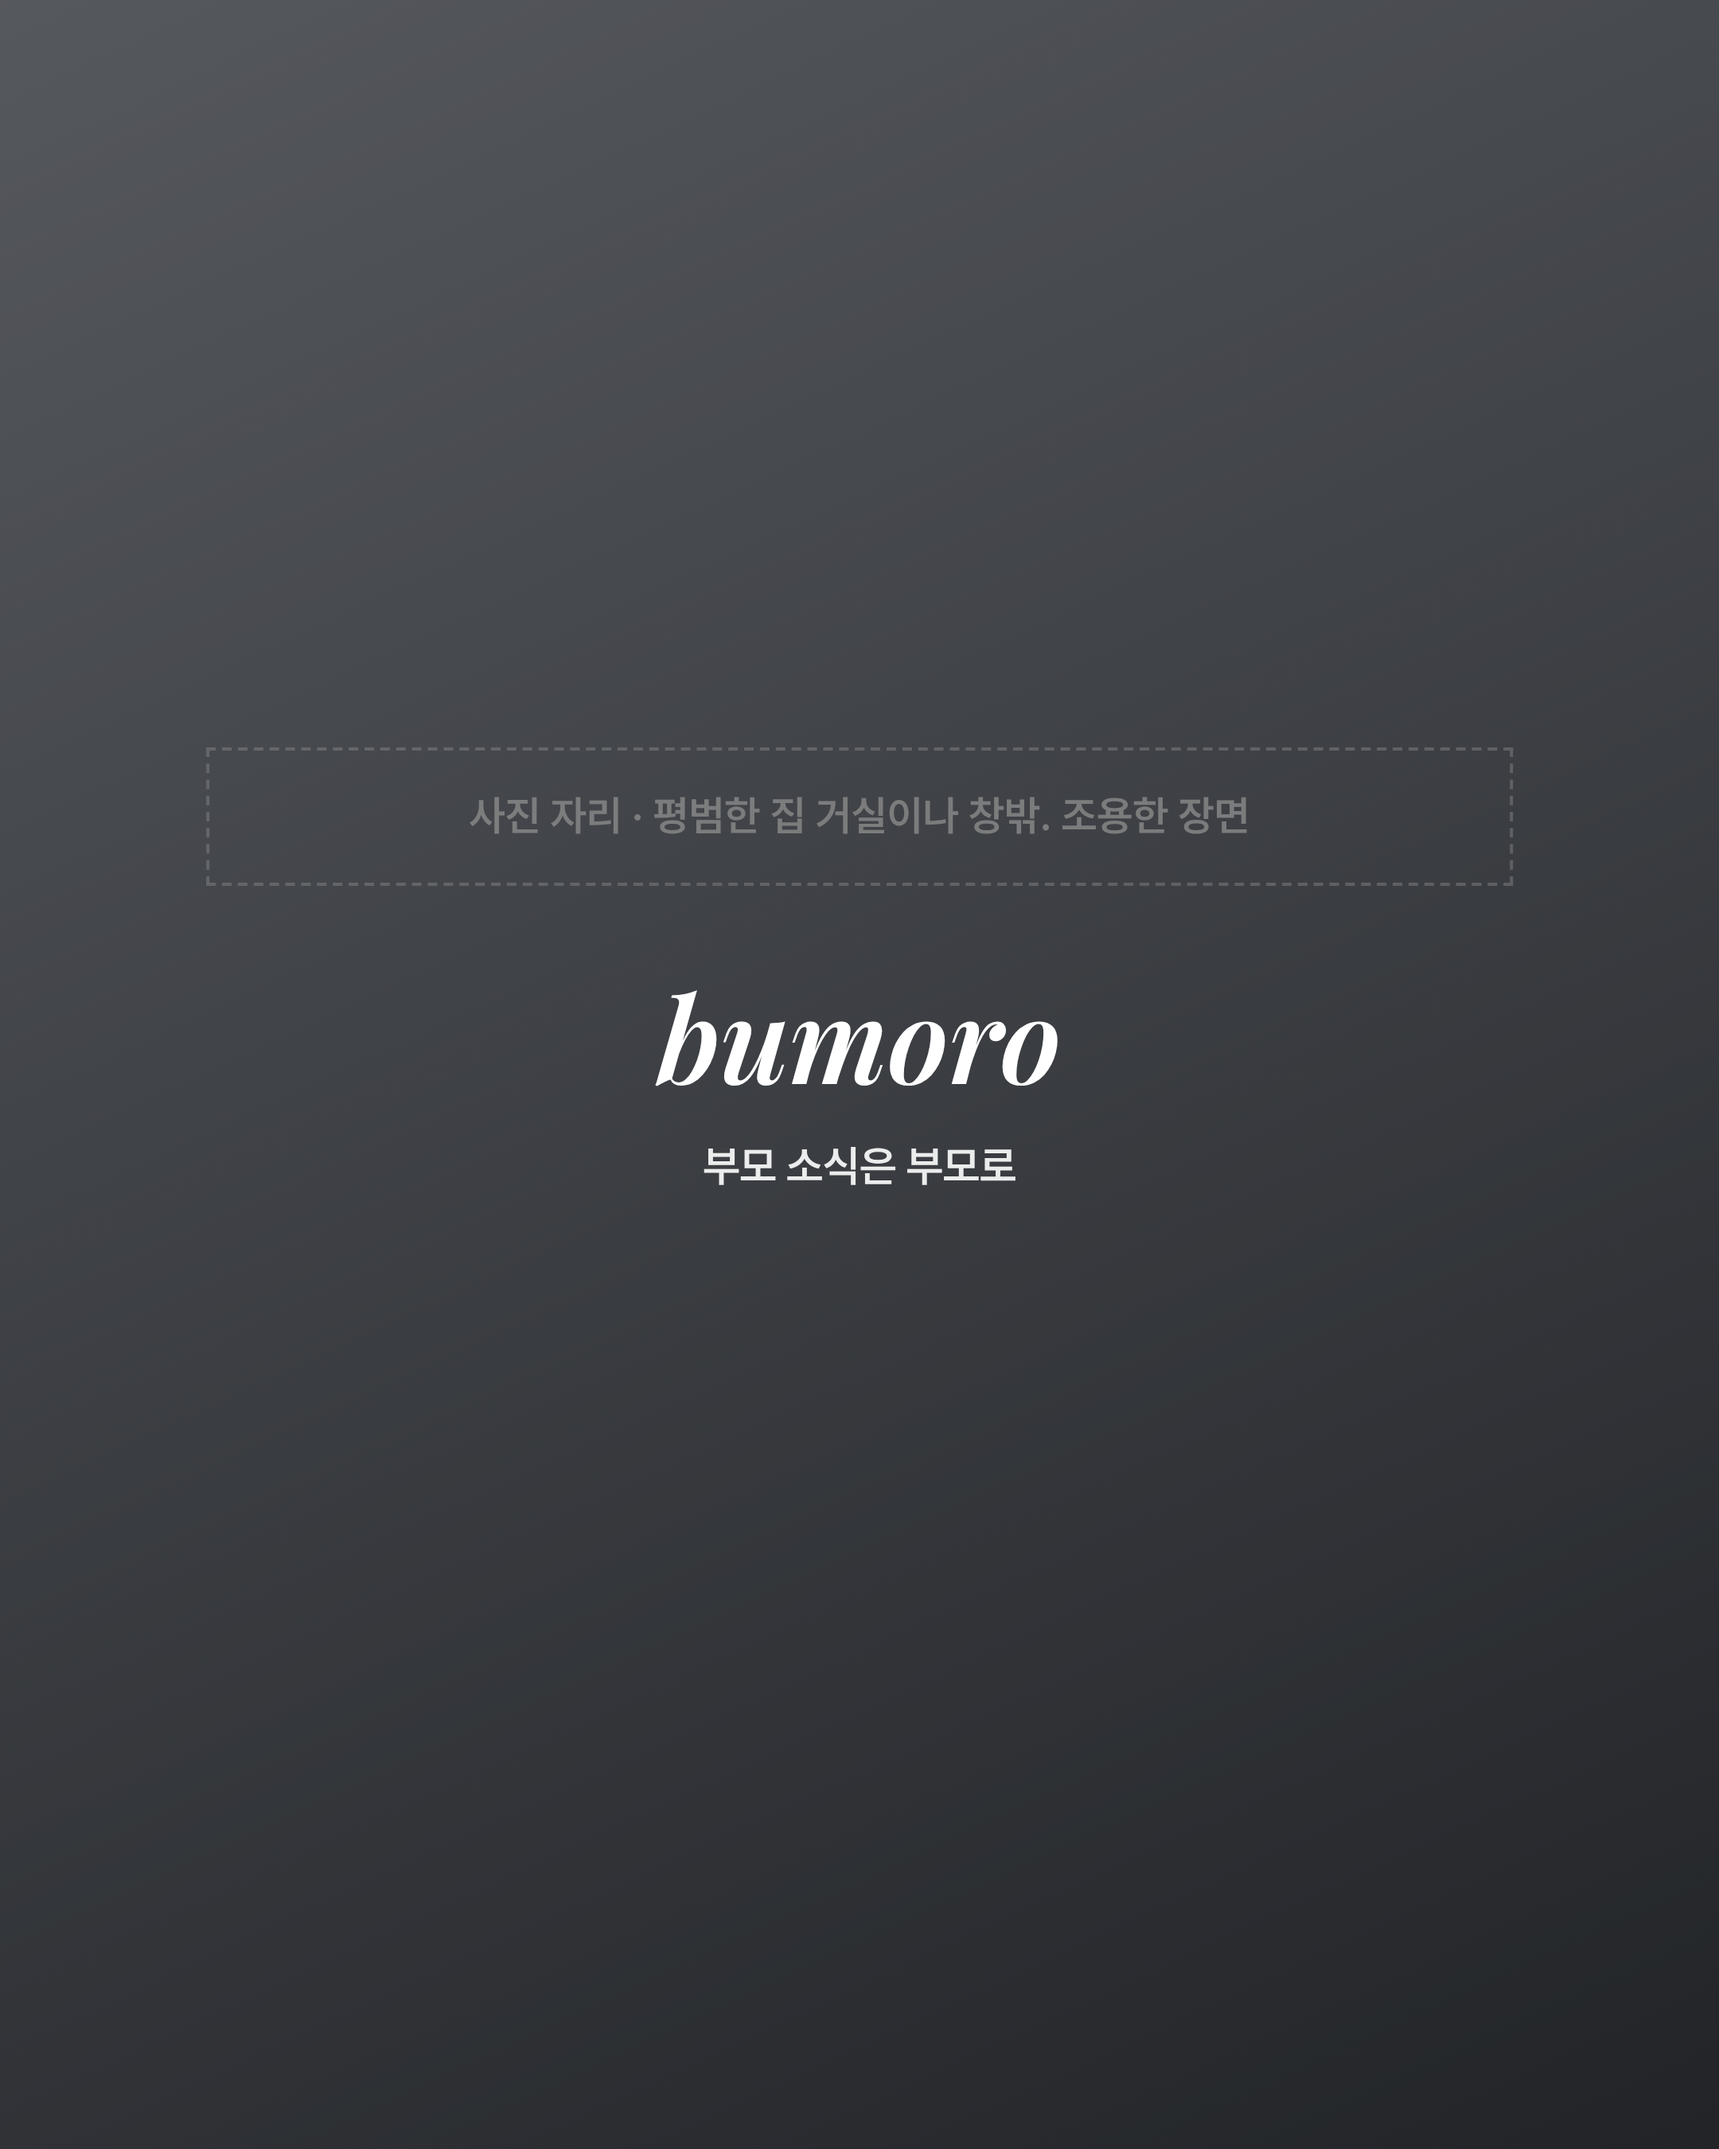
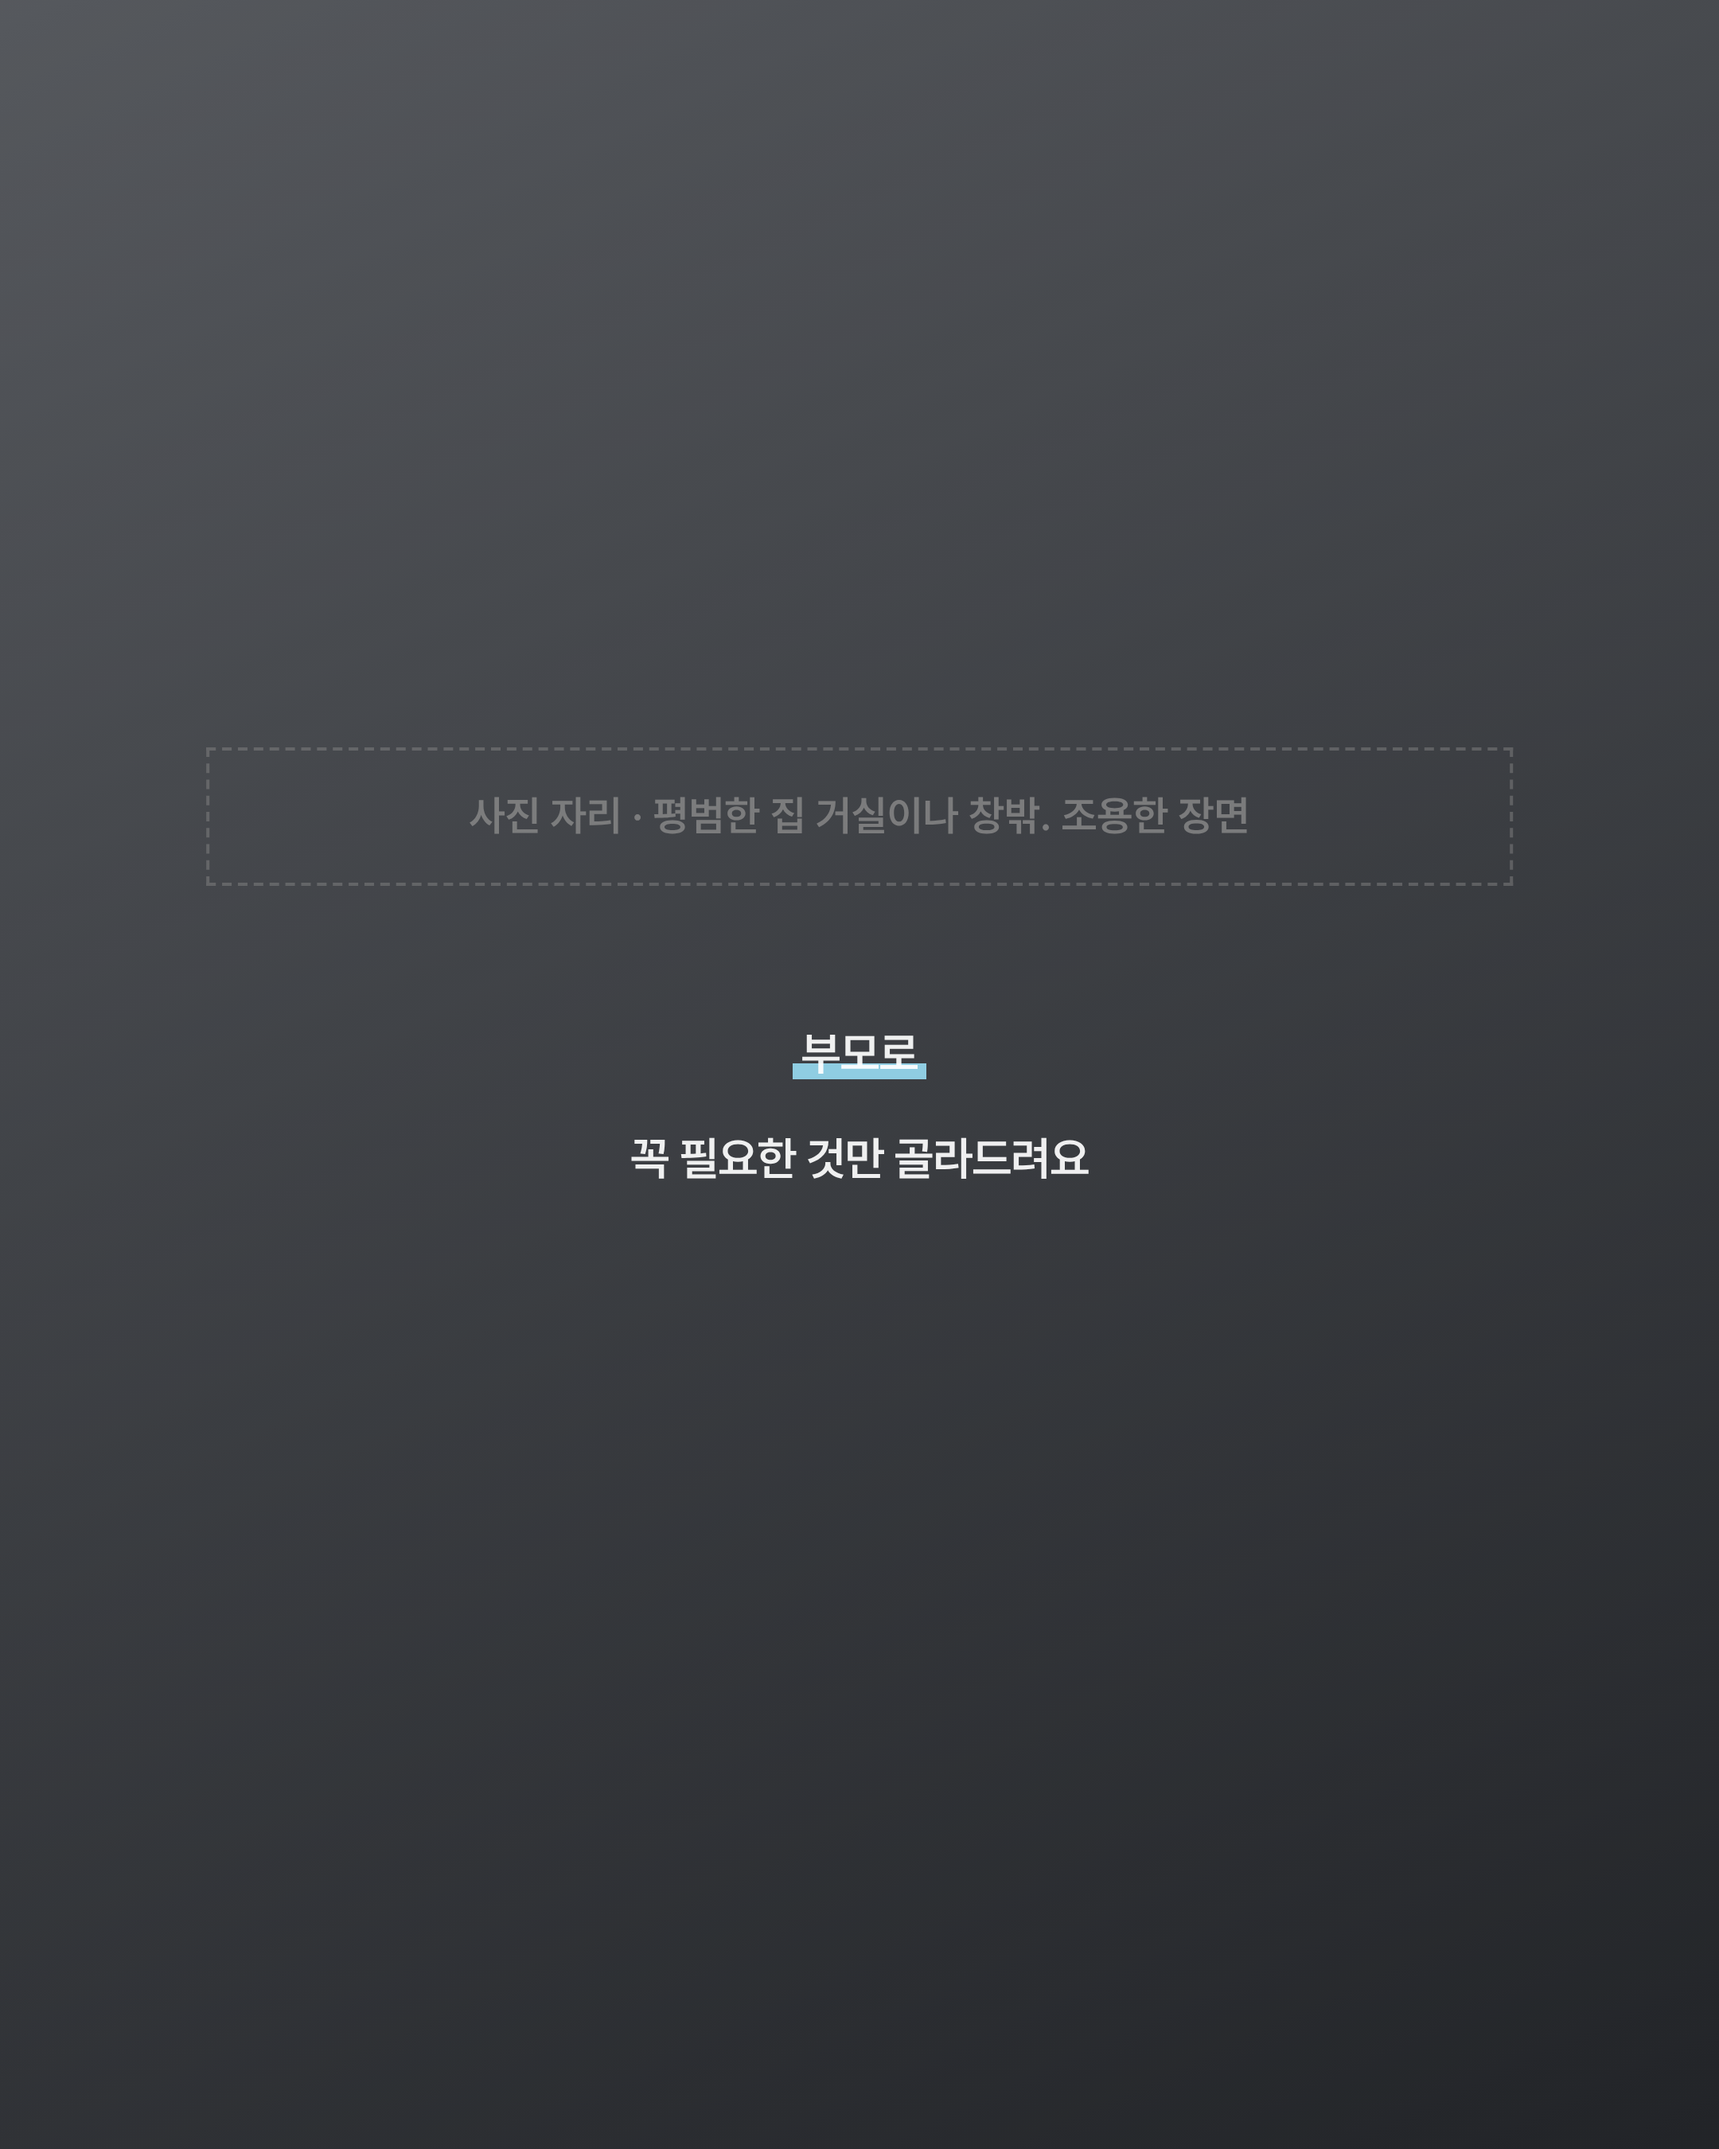
fix: 워드마크를 부모로 실제 로고로 교체
라틴 세리프(Playfair)로 임시 조판했던 워드마크를 브랜드 로고 그대로
굵은 한글 「부모로」 + 하늘색 밑줄 바로 바꿨습니다.

- 밑줄 바를 em 단위로 잡아 글자 크기에 비례하게 처리
- 표지·엔딩 양쪽에 같은 마크 사용
- 엔딩 태그라인을 계정의 문구("꼭 필요한 것만 골라드려요")로 교체

Changed region(s): [[0.3722, 0.4667, 0.6204, 0.56]]

diff --git a/public/instagram/preview.html b/public/instagram/preview.html
@@ -78,8 +78,13 @@
     color:rgba(255,255,255,.8); font-size:26px; font-weight:600; line-height:1.5;
     padding:22px 26px; }
   .ph .scrim { position:absolute; inset:0; }
-  .ph .mark { position:absolute; left:64px; top:56px; font-family:'Playfair Display',serif;
-    font-style:italic; font-size:52px; font-weight:600; color:#fff; letter-spacing:.005em; }
+  .ph .mark { position:absolute; left:64px; top:56px; }
+  .wm2 { position:relative; display:inline-block; font-size:48px; font-weight:900;
+    letter-spacing:.055em; color:#fff; line-height:1; padding:0 2px; }
+  /* 밑줄 바는 글자 크기에 비례 — 아래쪽에 얇게 깔려 획이 위로 지나가게 */
+  .wm2 .bar { position:absolute; left:-3px; right:-3px; bottom:.07em; height:.13em;
+    background:#8FCDE2; }
+  .wm2 .t { position:relative; }
   .ph .txt { position:absolute; left:64px; right:64px; bottom:74px; }
   .ph .kicker { font-size:27px; font-weight:600; color:undefined; letter-spacing:.02em;
     margin-bottom:20px; }
@@ -100,10 +105,9 @@
   /* 엔딩 — 워드마크만 */
   .ph .center { position:absolute; inset:0; display:flex; flex-direction:column;
     align-items:center; justify-content:center; }
-  .ph .center .w { font-family:'Playfair Display',serif; font-style:italic; font-size:74px;
-    font-weight:600; color:#fff; }
-  .ph .center .t { margin-top:16px; font-size:27px; font-weight:600; color:rgba(255,255,255,.9);
-    letter-spacing:-.01em; }
+  .ph .center .wm2 { font-size:78px; }
+  .ph .center .t { margin-top:26px; font-size:29px; font-weight:600;
+    color:rgba(255,255,255,.92); letter-spacing:-.02em; }
 
   /* ── 엔딩 ── */
   .end h1 { margin-top:auto; }
@@ -113,7 +117,7 @@
 </style></head><body><section class="s ph">
   <div class="holder" style="background:linear-gradient(155deg,#A8A29A 0%,#4A453F 100%)">
     <span>사진 자리 · 초등 저학년 아이의 뒷모습 또는 등굣길. 얼굴 안 나오게</span></div><div class="scrim" style="background:linear-gradient(to bottom, rgba(0,0,0,.30) 0%, rgba(0,0,0,0) 28%, rgba(0,0,0,.52) 64%, rgba(0,0,0,.86) 100%)"></div>
-  <div class="mark">bumoro</div>
+  <div class="mark"><span class="wm2"><span class="bar"></span><span class="t">부모로</span></span></div>
     <div class="txt"><div class="kicker">육아<i>|</i>NEWS</div>
       <h2>아동수당<br>나이 기준이 올라갑니다</h2></div>
   
@@ -160,5 +164,5 @@
   
   
   <div class="center">
-      <div class="w">bumoro</div><div class="t">부모 소식은 부모로</div></div>
+      <span class="wm2"><span class="bar"></span><span class="t">부모로</span></span><div class="t">꼭 필요한 것만 골라드려요</div></div>
 </section></body></html>

diff --git a/scripts/instagram/README.md b/scripts/instagram/README.md
@@ -49,8 +49,9 @@ node scripts/instagram/generate.mjs
 - `photoEnd` (엔딩): 화면 전체를 고르게 눌러 가운데 워드마크 + 태그라인만
 - `photoOnly`: 문구 없는 사진 한 장
 
-워드마크는 **Playfair Display Italic**입니다. 본문 고딕(Pretendard)과 다른 서체이며,
-위치·크기를 바꾸지 마세요.
+워드마크는 브랜드 로고 그대로 **굵은 한글 「부모로」 + 하늘색(#8FCDE2) 밑줄 바**입니다.
+바는 `em` 단위라 글자 크기를 바꾸면 같이 따라옵니다. 위치는 바꾸지 마세요.
+계정은 `bumoro.kr` 입니다.
 
 ## 사진형 카드 (E 세트)
 
